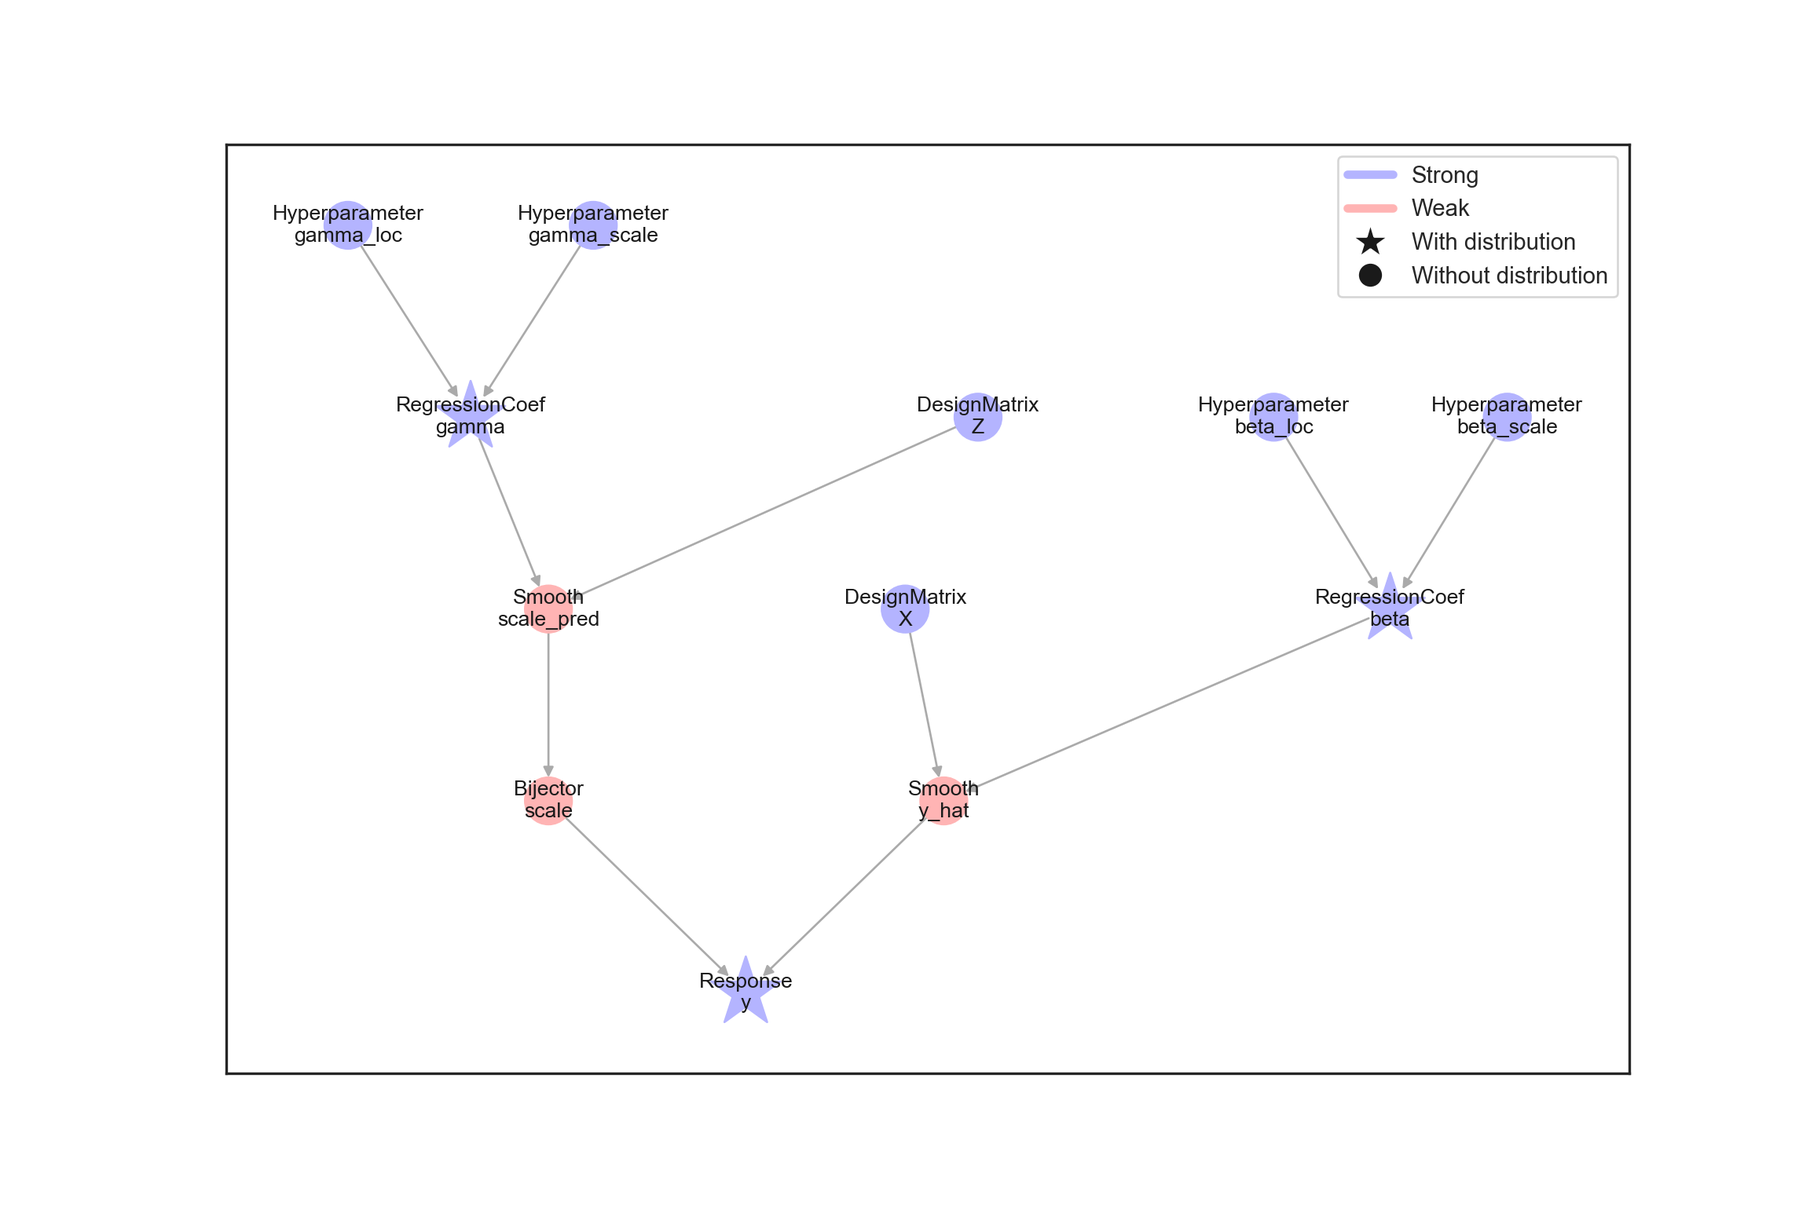
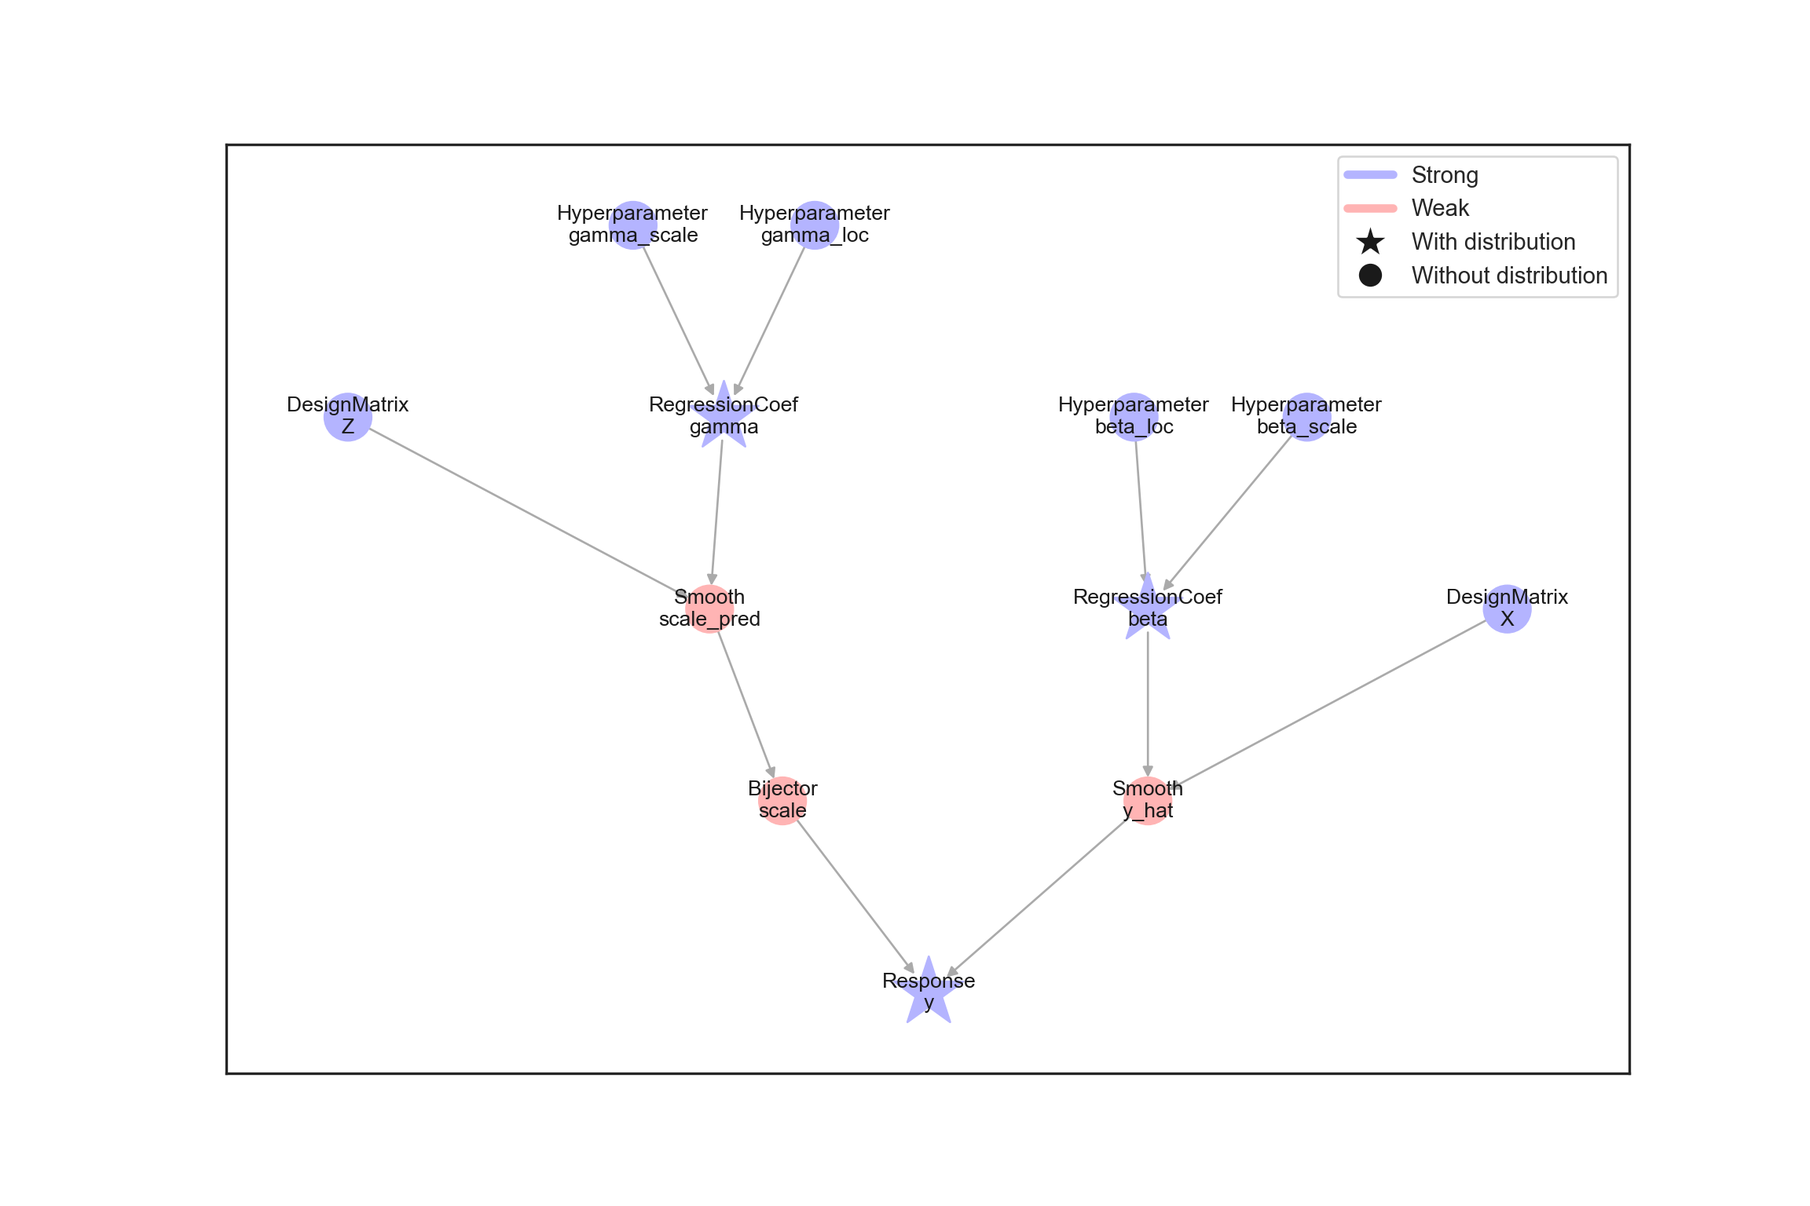
Rebuild with fixed figure layout

diff --git a/docs/linear-regression.html b/docs/linear-regression.html
@@ -315,10 +315,10 @@ code span.wa { color: #60a0b0; font-weight: bold; font-style: italic; } /* Warni
 <p>The easiest way to combine several nodes in a model object is using the model builder (<code>lsl.ModelBuilder</code>). Nodes can be added step by step to the builder. Here, we are only adding the response node, but the builder takes care of adding all missing direct or indirect inputs to the model when the <code>build()</code> method is called. The model that is returned by the builder provides a couple of convenience function, for example, to evaluate the model log-probability, or to update the nodes in a topological order.</p>
 <div class="sourceCode" id="cb15"><pre class="sourceCode python"><code class="sourceCode python"><span id="cb15-1"><a href="linear-regression.html#cb15-1" aria-hidden="true" tabindex="-1"></a>mb <span class="op">=</span> lsl.ModelBuilder()</span>
 <span id="cb15-2"><a href="linear-regression.html#cb15-2" aria-hidden="true" tabindex="-1"></a>mb.add_nodes(n_y)</span></code></pre></div>
-<pre><code>## ModelBuilder([Response(..., name=&#39;y&#39;), Parameter(..., name=&#39;sigma&#39;), Smooth(..., name=&#39;y_hat&#39;), ...])</code></pre>
+<pre><code>## ModelBuilder([Response(..., name=&#39;y&#39;), Smooth(..., name=&#39;y_hat&#39;), Parameter(..., name=&#39;sigma&#39;), ...])</code></pre>
 <div class="sourceCode" id="cb17"><pre class="sourceCode python"><code class="sourceCode python"><span id="cb17-1"><a href="linear-regression.html#cb17-1" aria-hidden="true" tabindex="-1"></a>model <span class="op">=</span> mb.build()</span>
 <span id="cb17-2"><a href="linear-regression.html#cb17-2" aria-hidden="true" tabindex="-1"></a>model</span></code></pre></div>
-<pre><code>## Model([Hyperparameter(..., name=&#39;b&#39;), Hyperparameter(..., name=&#39;a&#39;), DesignMatrix(..., name=&#39;X&#39;), ...])</code></pre>
+<pre><code>## Model([DesignMatrix(..., name=&#39;X&#39;), Hyperparameter(..., name=&#39;b&#39;), Hyperparameter(..., name=&#39;a&#39;), ...])</code></pre>
 <p>The <code>lsl.plot_model()</code> function visualizes the graph of a model. Strong nodes are shown in blue, weak nodes in red. Nodes with a probability distribution are highlighted with a star. In the figure below, we can see the tree-like structure of the graph and identify the two branches for the mean and the standard deviation of the response. By the way, if the layout of the graph looks messy for you, please make sure you have the <code>pygraphviz</code> package installed.</p>
 <div class="sourceCode" id="cb19"><pre class="sourceCode python"><code class="sourceCode python"><span id="cb19-1"><a href="linear-regression.html#cb19-1" aria-hidden="true" tabindex="-1"></a>lsl.plot_model(model)</span></code></pre></div>
 <p><img src="_main_files/figure-html/unnamed-chunk-10-3.png" width="1920" /></p>
@@ -369,12 +369,12 @@ code span.wa { color: #60a0b0; font-weight: bold; font-style: italic; } /* Warni
 <pre><code>## NodeState(value=1.0, log_prob=-4.6555311772972345)</code></pre>
 <p>The state of a model is defined as a dictionary of node states. The dictionary keys correspond to the node names.</p>
 <div class="sourceCode" id="cb46"><pre class="sourceCode python"><code class="sourceCode python"><span id="cb46-1"><a href="linear-regression.html#cb46-1" aria-hidden="true" tabindex="-1"></a>model.state.keys()</span></code></pre></div>
-<pre><code>## dict_keys([&#39;b&#39;, &#39;a&#39;, &#39;X&#39;, &#39;beta_loc&#39;, &#39;beta_scale&#39;, &#39;sigma&#39;, &#39;beta&#39;, &#39;y_hat&#39;, &#39;y&#39;])</code></pre>
+<pre><code>## dict_keys([&#39;X&#39;, &#39;b&#39;, &#39;a&#39;, &#39;beta_scale&#39;, &#39;beta_loc&#39;, &#39;sigma&#39;, &#39;beta&#39;, &#39;y_hat&#39;, &#39;y&#39;])</code></pre>
 <p>At first, the stateful Liesel objects seem incompatible with JAX’ pure functional programming paradigm (JAX’ <a href="https://jax.readthedocs.io/en/latest/notebooks/Common_Gotchas_in_JAX.html">“anima di pura programmazione funzionale”</a>), but it is possible to separate the math and the data that are stored in the objects to use them with JAX. We have already seen how to extract the state, that is, the data from the model, so now we need to generate a pure, stateless function that computes the log-probability from the model state.</p>
 <p>The function <code>liesel.liesel.goose.make_log_prob_fn()</code> serves this exact purpose. The returned log-probability function requires two arguments: the model state as the second argument, and a position, that is, a subset of the model state defining with respect to which nodes the log-probability is evaluated, as the first argument. The position is important when computing the derivatives of the log-probability.</p>
 <p>Usually, the user doesn’t need to import or use the <code>make_log_prob_fn()</code> function, because the MCMC framework Goose hides this level of complexity, but it is important for a good understanding of the Liesel internals.</p>
 <div class="sourceCode" id="cb48"><pre class="sourceCode python"><code class="sourceCode python"><span id="cb48-1"><a href="linear-regression.html#cb48-1" aria-hidden="true" tabindex="-1"></a>model.jaxify()</span></code></pre></div>
-<pre><code>## Model([Hyperparameter(..., name=&#39;b&#39;), Hyperparameter(..., name=&#39;a&#39;), DesignMatrix(..., name=&#39;X&#39;), ...])</code></pre>
+<pre><code>## Model([DesignMatrix(..., name=&#39;X&#39;), Hyperparameter(..., name=&#39;b&#39;), Hyperparameter(..., name=&#39;a&#39;), ...])</code></pre>
 <div class="sourceCode" id="cb50"><pre class="sourceCode python"><code class="sourceCode python"><span id="cb50-1"><a href="linear-regression.html#cb50-1" aria-hidden="true" tabindex="-1"></a>log_prob_fn <span class="op">=</span> make_log_prob_fn(model)</span>
 <span id="cb50-2"><a href="linear-regression.html#cb50-2" aria-hidden="true" tabindex="-1"></a>log_prob_fn({<span class="st">&quot;sigma&quot;</span>: <span class="fl">1.0</span>}, model.state)</span></code></pre></div>
 <pre><code>## DeviceArray(-1740.374, dtype=float32)</code></pre>
@@ -703,7 +703,7 @@ code span.wa { color: #60a0b0; font-weight: bold; font-style: italic; } /* Warni
 
 <p>The effective sample sizes <code>ess_bulk</code> and <code>ess_tail</code> seem rather low compared to the 4000 MCMC samples. We can plot the trace plots of the chains with <code>gs.plot_trace()</code>.</p>
 <div class="sourceCode" id="cb66"><pre class="sourceCode python"><code class="sourceCode python"><span id="cb66-1"><a href="linear-regression.html#cb66-1" aria-hidden="true" tabindex="-1"></a>g <span class="op">=</span> gs.plot_trace(results)</span></code></pre></div>
-<p><img src="_main_files/figure-html/unnamed-chunk-28-5.png" width="673" /></p>
+<p><img src="_main_files/figure-html/unnamed-chunk-28-5.png" width="961" /></p>
 <p>We could also take a look at a kernel density estimator with <code>gs.plot_density()</code> and the estimated autocorrelation with <code>gs.plot_cor()</code>. Alternatively, we can output all three diagnostic plots together with <code>gs.plot_param()</code>. The following plot shows the parameter <span class="math inline">\(\beta_0\)</span>.</p>
 <div class="sourceCode" id="cb67"><pre class="sourceCode python"><code class="sourceCode python"><span id="cb67-1"><a href="linear-regression.html#cb67-1" aria-hidden="true" tabindex="-1"></a>gs.plot_param(results, param<span class="op">=</span><span class="st">&quot;beta&quot;</span>, param_index<span class="op">=</span><span class="dv">0</span>)</span></code></pre></div>
 <p><img src="_main_files/figure-html/unnamed-chunk-29-7.png" width="864" /></p>

diff --git a/docs/comparing-samplers.html b/docs/comparing-samplers.html
@@ -208,7 +208,7 @@ code span.wa { color: #60a0b0; font-weight: bold; font-style: italic; } /* Warni
 <div class="sourceCode" id="cb120"><pre class="sourceCode r"><code class="sourceCode r"><span id="cb120-1"><a href="comparing-samplers.html#cb120-1" aria-hidden="true" tabindex="-1"></a><span class="fu">library</span>(rliesel)</span>
 <span id="cb120-2"><a href="comparing-samplers.html#cb120-2" aria-hidden="true" tabindex="-1"></a></span>
 <span id="cb120-3"><a href="comparing-samplers.html#cb120-3" aria-hidden="true" tabindex="-1"></a><span class="fu">use_liesel_venv</span>()</span></code></pre></div>
-<pre><code>## [1] &quot;/home/hannes/.virtualenvs/liesel-tutorials-1k9wp3mI&quot;</code></pre>
+<pre><code>## [1] &quot;/home/hannes/.local/share/virtualenvs/liesel-tutorials-1k9wp3mI&quot;</code></pre>
 <div class="sourceCode" id="cb122"><pre class="sourceCode r"><code class="sourceCode r"><span id="cb122-1"><a href="comparing-samplers.html#cb122-1" aria-hidden="true" tabindex="-1"></a><span class="fu">data</span>(mcycle)</span>
 <span id="cb122-2"><a href="comparing-samplers.html#cb122-2" aria-hidden="true" tabindex="-1"></a><span class="fu">with</span>(mcycle, <span class="fu">plot</span>(times, accel))</span></code></pre></div>
 <p><img src="_main_files/figure-html/unnamed-chunk-54-1.png" width="672" /></p>
@@ -272,13 +272,13 @@ code span.wa { color: #60a0b0; font-weight: bold; font-style: italic; } /* Warni
 <div class="sourceCode" id="cb127"><pre class="sourceCode python"><code class="sourceCode python"><span id="cb127-1"><a href="comparing-samplers.html#cb127-1" aria-hidden="true" tabindex="-1"></a>fig <span class="op">=</span> gs.plot_trace(results, <span class="st">&quot;loc_np0_tau2&quot;</span>)</span></code></pre></div>
 <p><img src="_main_files/figure-html/unnamed-chunk-56-2.png" width="385" /></p>
 <div class="sourceCode" id="cb128"><pre class="sourceCode python"><code class="sourceCode python"><span id="cb128-1"><a href="comparing-samplers.html#cb128-1" aria-hidden="true" tabindex="-1"></a>fig <span class="op">=</span> gs.plot_trace(results, <span class="st">&quot;loc_np0_beta&quot;</span>)</span></code></pre></div>
-<p><img src="_main_files/figure-html/unnamed-chunk-56-3.png" width="385" /></p>
+<p><img src="_main_files/figure-html/unnamed-chunk-56-3.png" width="961" /></p>
 <div class="sourceCode" id="cb129"><pre class="sourceCode python"><code class="sourceCode python"><span id="cb129-1"><a href="comparing-samplers.html#cb129-1" aria-hidden="true" tabindex="-1"></a>fig <span class="op">=</span> gs.plot_trace(results, <span class="st">&quot;scale_p0_beta&quot;</span>)</span></code></pre></div>
 <p><img src="_main_files/figure-html/unnamed-chunk-56-4.png" width="385" /></p>
 <div class="sourceCode" id="cb130"><pre class="sourceCode python"><code class="sourceCode python"><span id="cb130-1"><a href="comparing-samplers.html#cb130-1" aria-hidden="true" tabindex="-1"></a>fig <span class="op">=</span> gs.plot_trace(results, <span class="st">&quot;scale_np0_tau2&quot;</span>)</span></code></pre></div>
 <p><img src="_main_files/figure-html/unnamed-chunk-56-5.png" width="385" /></p>
 <div class="sourceCode" id="cb131"><pre class="sourceCode python"><code class="sourceCode python"><span id="cb131-1"><a href="comparing-samplers.html#cb131-1" aria-hidden="true" tabindex="-1"></a>fig <span class="op">=</span> gs.plot_trace(results, <span class="st">&quot;scale_np0_beta&quot;</span>)</span></code></pre></div>
-<p><img src="_main_files/figure-html/unnamed-chunk-56-6.png" width="385" /></p>
+<p><img src="_main_files/figure-html/unnamed-chunk-56-6.png" width="961" /></p>
 <p>To confirm that the chains have converged to reasonable values, here is a plot of the estimated mean function:</p>
 <div class="sourceCode" id="cb132"><pre class="sourceCode r"><code class="sourceCode r"><span id="cb132-1"><a href="comparing-samplers.html#cb132-1" aria-hidden="true" tabindex="-1"></a><span class="fu">library</span>(dplyr)</span>
 <span id="cb132-2"><a href="comparing-samplers.html#cb132-2" aria-hidden="true" tabindex="-1"></a><span class="fu">library</span>(ggplot2)</span>
@@ -374,13 +374,13 @@ code span.wa { color: #60a0b0; font-weight: bold; font-style: italic; } /* Warni
 <div class="sourceCode" id="cb138"><pre class="sourceCode python"><code class="sourceCode python"><span id="cb138-1"><a href="comparing-samplers.html#cb138-1" aria-hidden="true" tabindex="-1"></a>fig <span class="op">=</span> gs.plot_trace(results, <span class="st">&quot;loc_np0_tau2_transformed&quot;</span>)</span></code></pre></div>
 <p><img src="_main_files/figure-html/unnamed-chunk-62-6.png" width="385" /></p>
 <div class="sourceCode" id="cb139"><pre class="sourceCode python"><code class="sourceCode python"><span id="cb139-1"><a href="comparing-samplers.html#cb139-1" aria-hidden="true" tabindex="-1"></a>fig <span class="op">=</span> gs.plot_trace(results, <span class="st">&quot;loc_np0_beta&quot;</span>)</span></code></pre></div>
-<p><img src="_main_files/figure-html/unnamed-chunk-62-7.png" width="385" /></p>
+<p><img src="_main_files/figure-html/unnamed-chunk-62-7.png" width="961" /></p>
 <div class="sourceCode" id="cb140"><pre class="sourceCode python"><code class="sourceCode python"><span id="cb140-1"><a href="comparing-samplers.html#cb140-1" aria-hidden="true" tabindex="-1"></a>fig <span class="op">=</span> gs.plot_trace(results, <span class="st">&quot;scale_p0_beta&quot;</span>)</span></code></pre></div>
 <p><img src="_main_files/figure-html/unnamed-chunk-62-8.png" width="385" /></p>
 <div class="sourceCode" id="cb141"><pre class="sourceCode python"><code class="sourceCode python"><span id="cb141-1"><a href="comparing-samplers.html#cb141-1" aria-hidden="true" tabindex="-1"></a>fig <span class="op">=</span> gs.plot_trace(results, <span class="st">&quot;scale_np0_tau2_transformed&quot;</span>)</span></code></pre></div>
 <p><img src="_main_files/figure-html/unnamed-chunk-62-9.png" width="385" /></p>
 <div class="sourceCode" id="cb142"><pre class="sourceCode python"><code class="sourceCode python"><span id="cb142-1"><a href="comparing-samplers.html#cb142-1" aria-hidden="true" tabindex="-1"></a>fig <span class="op">=</span> gs.plot_trace(results, <span class="st">&quot;scale_np0_beta&quot;</span>)</span></code></pre></div>
-<p><img src="_main_files/figure-html/unnamed-chunk-62-10.png" width="385" /></p>
+<p><img src="_main_files/figure-html/unnamed-chunk-62-10.png" width="961" /></p>
 <p>Again, here is a plot of the estimated mean function:</p>
 <div class="sourceCode" id="cb143"><pre class="sourceCode r"><code class="sourceCode r"><span id="cb143-1"><a href="comparing-samplers.html#cb143-1" aria-hidden="true" tabindex="-1"></a><span class="fu">library</span>(dplyr)</span>
 <span id="cb143-2"><a href="comparing-samplers.html#cb143-2" aria-hidden="true" tabindex="-1"></a><span class="fu">library</span>(ggplot2)</span>

diff --git a/docs/gev-responses.html b/docs/gev-responses.html
@@ -206,7 +206,7 @@ code span.wa { color: #60a0b0; font-weight: bold; font-style: italic; } /* Warni
 <pre><code>## Loading required package: stats4</code></pre>
 <pre><code>## Loading required package: splines</code></pre>
 <div class="sourceCode" id="cb96"><pre class="sourceCode r"><code class="sourceCode r"><span id="cb96-1"><a href="gev-responses.html#cb96-1" aria-hidden="true" tabindex="-1"></a><span class="fu">use_liesel_venv</span>()</span></code></pre></div>
-<pre><code>## [1] &quot;/home/hannes/.virtualenvs/liesel-tutorials-1k9wp3mI&quot;</code></pre>
+<pre><code>## [1] &quot;/home/hannes/.local/share/virtualenvs/liesel-tutorials-1k9wp3mI&quot;</code></pre>
 <div class="sourceCode" id="cb98"><pre class="sourceCode r"><code class="sourceCode r"><span id="cb98-1"><a href="gev-responses.html#cb98-1" aria-hidden="true" tabindex="-1"></a><span class="fu">set.seed</span>(<span class="dv">1337</span>)</span>
 <span id="cb98-2"><a href="gev-responses.html#cb98-2" aria-hidden="true" tabindex="-1"></a></span>
 <span id="cb98-3"><a href="gev-responses.html#cb98-3" aria-hidden="true" tabindex="-1"></a>n <span class="ot">&lt;-</span> <span class="dv">1000</span></span>
@@ -811,11 +811,11 @@ code span.wa { color: #60a0b0; font-weight: bold; font-style: italic; } /* Warni
 <div class="sourceCode" id="cb107"><pre class="sourceCode python"><code class="sourceCode python"><span id="cb107-1"><a href="gev-responses.html#cb107-1" aria-hidden="true" tabindex="-1"></a>fig <span class="op">=</span> gs.plot_trace(results, <span class="st">&quot;loc_np0_tau2&quot;</span>)</span></code></pre></div>
 <p><img src="_main_files/figure-html/unnamed-chunk-51-2.png" width="385" /></p>
 <div class="sourceCode" id="cb108"><pre class="sourceCode python"><code class="sourceCode python"><span id="cb108-1"><a href="gev-responses.html#cb108-1" aria-hidden="true" tabindex="-1"></a>fig <span class="op">=</span> gs.plot_trace(results, <span class="st">&quot;loc_np0_beta&quot;</span>)</span></code></pre></div>
-<p><img src="_main_files/figure-html/unnamed-chunk-51-3.png" width="385" /></p>
+<p><img src="_main_files/figure-html/unnamed-chunk-51-3.png" width="961" /></p>
 <div class="sourceCode" id="cb109"><pre class="sourceCode python"><code class="sourceCode python"><span id="cb109-1"><a href="gev-responses.html#cb109-1" aria-hidden="true" tabindex="-1"></a>fig <span class="op">=</span> gs.plot_trace(results, <span class="st">&quot;scale_p0_beta&quot;</span>)</span></code></pre></div>
-<p><img src="_main_files/figure-html/unnamed-chunk-51-4.png" width="385" /></p>
+<p><img src="_main_files/figure-html/unnamed-chunk-51-4.png" width="673" /></p>
 <div class="sourceCode" id="cb110"><pre class="sourceCode python"><code class="sourceCode python"><span id="cb110-1"><a href="gev-responses.html#cb110-1" aria-hidden="true" tabindex="-1"></a>fig <span class="op">=</span> gs.plot_trace(results, <span class="st">&quot;concentration_p0_beta&quot;</span>)</span></code></pre></div>
-<p><img src="_main_files/figure-html/unnamed-chunk-51-5.png" width="385" /></p>
+<p><img src="_main_files/figure-html/unnamed-chunk-51-5.png" width="673" /></p>
 <p>We need to reset the index of the <code>summary</code> data frame before we can transfer it to R.</p>
 <div class="sourceCode" id="cb111"><pre class="sourceCode python"><code class="sourceCode python"><span id="cb111-1"><a href="gev-responses.html#cb111-1" aria-hidden="true" tabindex="-1"></a>summary <span class="op">=</span> summary.reset_index()</span></code></pre></div>
 <p>After transferring the <code>summary</code> data frame to R, we can process it with packages like dplyr and ggplot2. Here is a visualization of the estimated spline vs. the true function:</p>

diff --git a/docs/location-scale-regression.html b/docs/location-scale-regression.html
@@ -345,7 +345,7 @@ The latter option might lead to better estimation results but lacks the flexibil
 <p>Now that we have 1000 posterior samples per chain, we can check the results. Starting with the trace plots just using one chain.</p>
 <div class="sourceCode" id="cb85"><pre class="sourceCode python"><code class="sourceCode python"><span id="cb85-1"><a href="location-scale-regression.html#cb85-1" aria-hidden="true" tabindex="-1"></a>results <span class="op">=</span> engine.get_results()</span>
 <span id="cb85-2"><a href="location-scale-regression.html#cb85-2" aria-hidden="true" tabindex="-1"></a>g <span class="op">=</span> gs.plot_trace(results, chain_indices<span class="op">=</span><span class="dv">0</span>, ncol<span class="op">=</span><span class="dv">4</span>)</span></code></pre></div>
-<p><img src="_main_files/figure-html/unnamed-chunk-43-19.png" width="673" /></p>
+<p><img src="_main_files/figure-html/unnamed-chunk-43-19.png" width="1249" /></p>
 <p>Looks decent although we can see some correlation in the tracplots especially for <span class="math inline">\(\beta\)</span>. Let’s check at the combined summary:</p>
 <div class="sourceCode" id="cb86"><pre class="sourceCode python"><code class="sourceCode python"><span id="cb86-1"><a href="location-scale-regression.html#cb86-1" aria-hidden="true" tabindex="-1"></a>gs.summary(results, per_chain<span class="op">=</span><span class="va">False</span>)</span></code></pre></div>
 <div>
@@ -488,7 +488,7 @@ The latter option might lead to better estimation results but lacks the flexibil
 ## INFO - Finished epoch</code></pre>
 <div class="sourceCode" id="cb89"><pre class="sourceCode python"><code class="sourceCode python"><span id="cb89-1"><a href="location-scale-regression.html#cb89-1" aria-hidden="true" tabindex="-1"></a>results <span class="op">=</span> engine.get_results()</span>
 <span id="cb89-2"><a href="location-scale-regression.html#cb89-2" aria-hidden="true" tabindex="-1"></a>g <span class="op">=</span> gs.plot_trace(results, chain_indices<span class="op">=</span><span class="dv">0</span>, ncol<span class="op">=</span><span class="dv">4</span>)</span></code></pre></div>
-<p><img src="_main_files/figure-html/unnamed-chunk-46-21.png" width="673" /></p>
+<p><img src="_main_files/figure-html/unnamed-chunk-46-21.png" width="1249" /></p>
 <div class="sourceCode" id="cb90"><pre class="sourceCode python"><code class="sourceCode python"><span id="cb90-1"><a href="location-scale-regression.html#cb90-1" aria-hidden="true" tabindex="-1"></a>gs.summary(results, per_chain<span class="op">=</span><span class="va">False</span>)</span></code></pre></div>
 <div>
 <style scoped>
